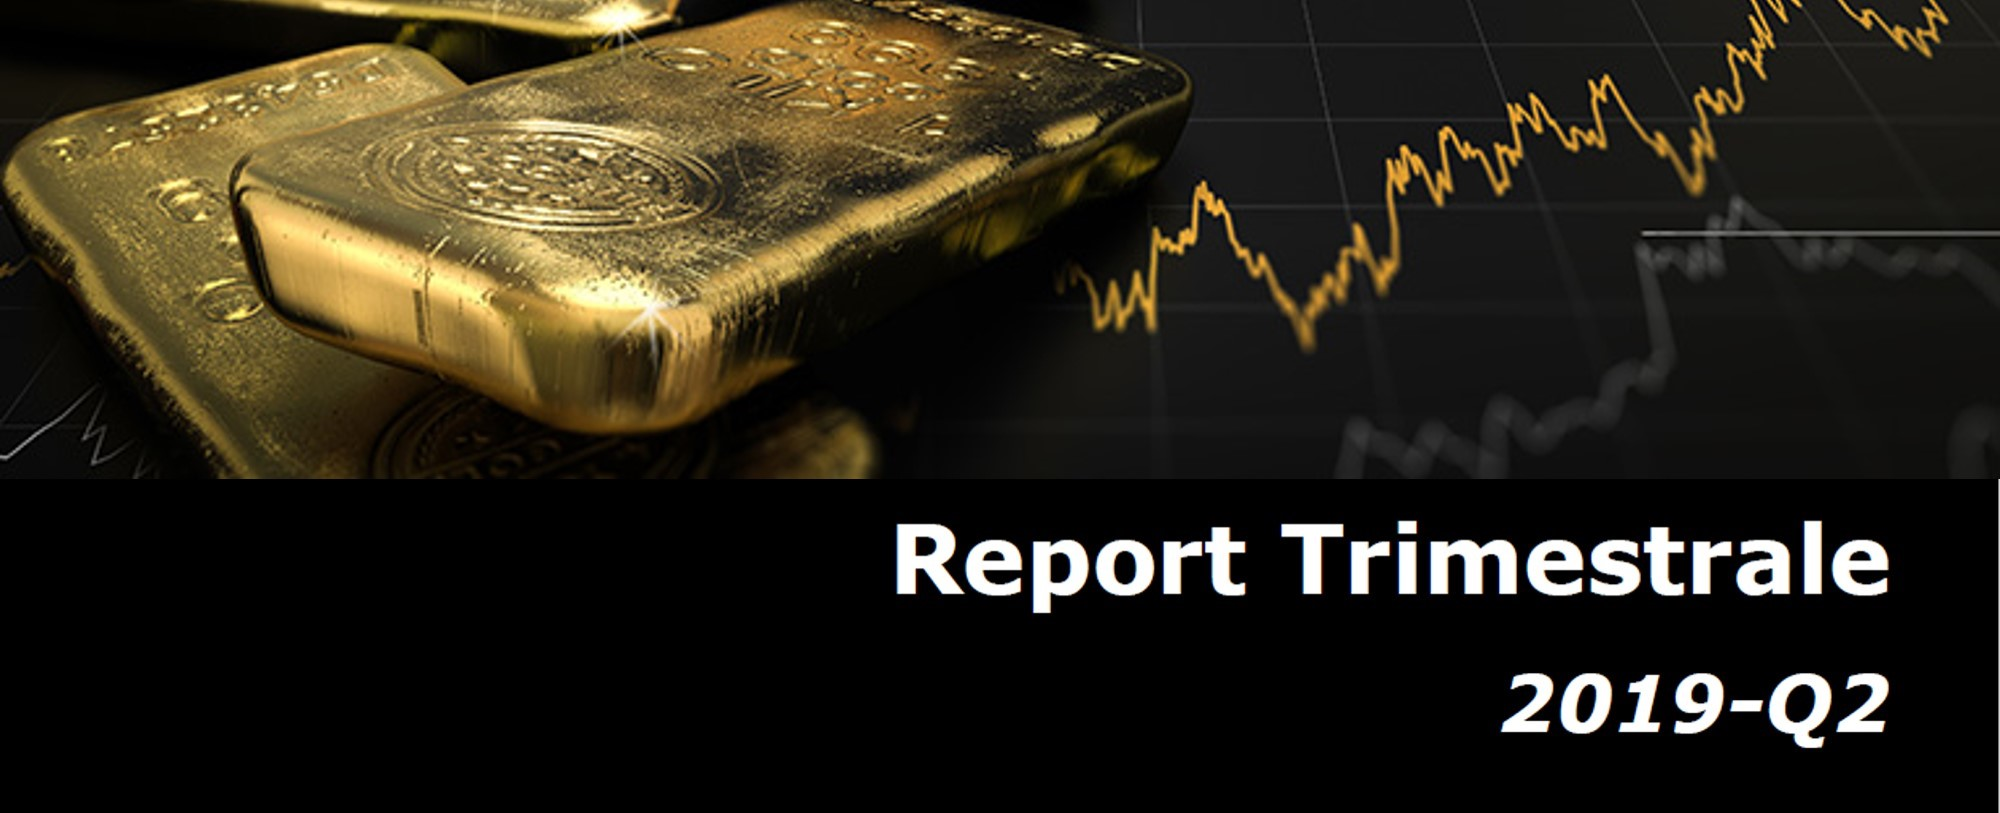
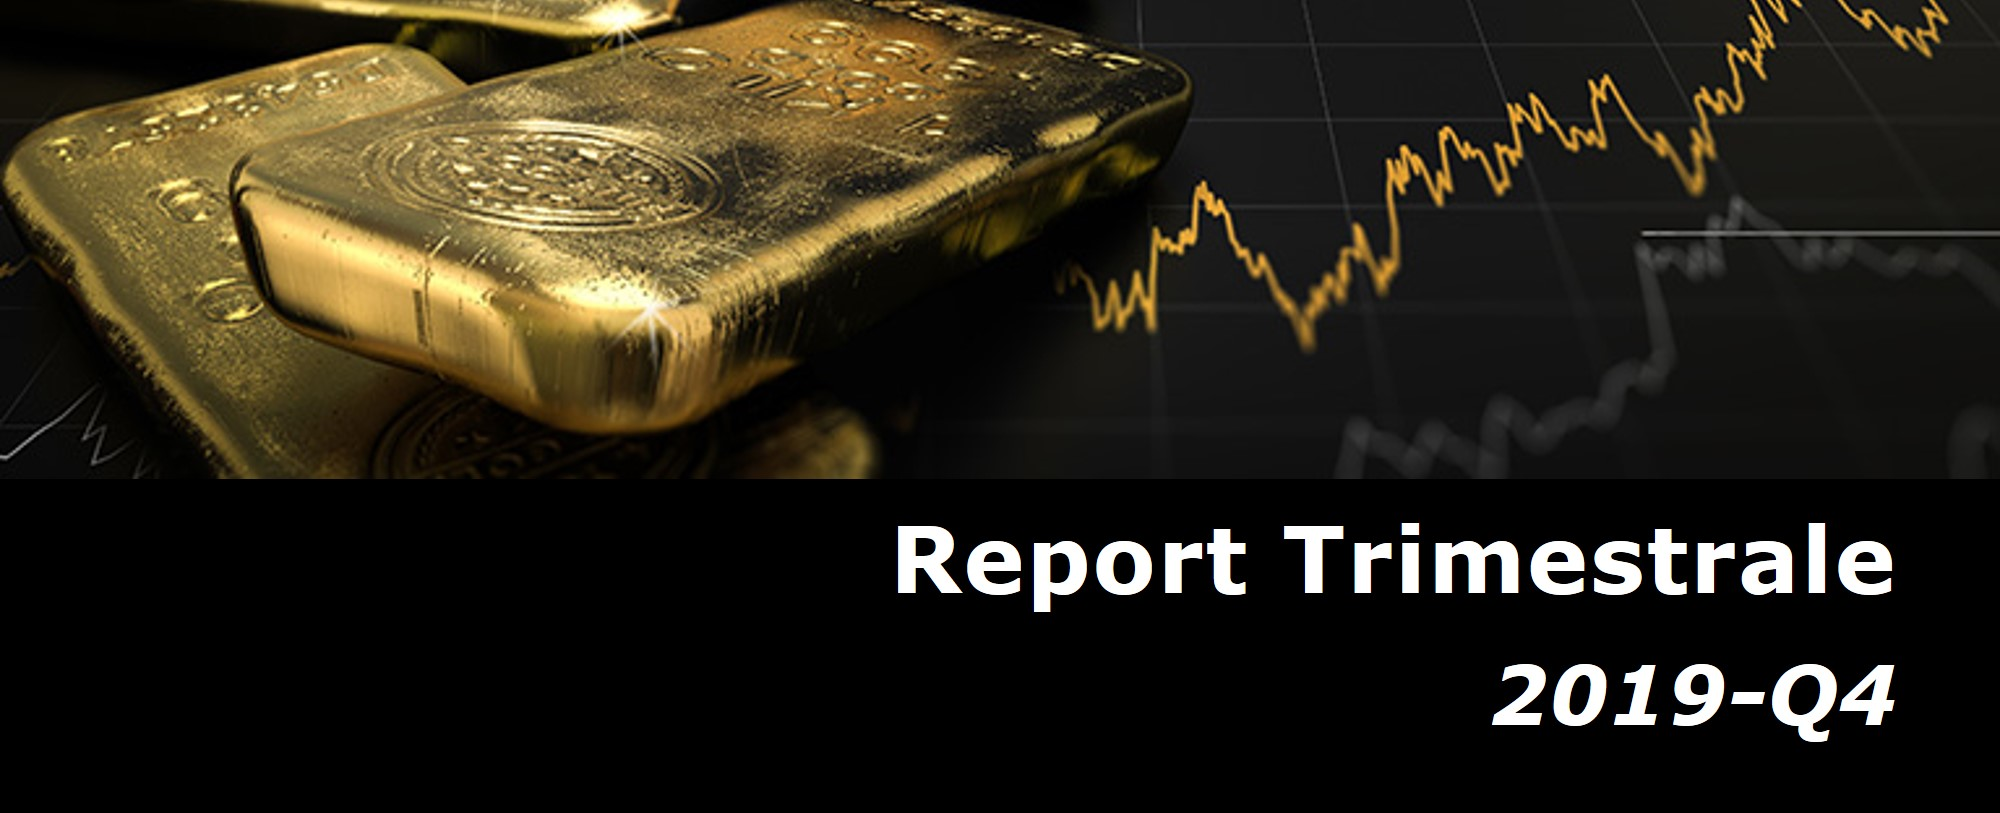
created post for report 2019q4

Changed region(s): [[0.465, 0.6458, 0.961, 0.738], [0.744, 0.7995, 0.961, 0.9225], [0.992, 0.5843, 1.0, 1.0]]

diff --git a/_posts/2020-01-31-report-trimestrale-Q4.md b/_posts/2020-01-31-report-trimestrale-Q4.md
@@ -1,0 +1,38 @@
+---
+layout: post
+comments: false
+title: "Report trimestrale sull'ecosistema Bitcoin, crypto-asset e blockchain"
+subtitle: "Quarto trimestre 2019"
+author: "Staff"
+image: 
+    main: 2020-01-31-report-trimestrale.jpg
+    thumb: 2020-01-31-report-trimestrale-thumb.jpg
+published: false
+newsfeed: false
+---
+
+Il Digital Gold Institute pubblica un report trimestrale sull'ecosistema Bitcoin, crypto-asset e blockchain: è appena uscito il numero tre (2019-Q4, quarto trimestre 2019), di cui in coda trovate l'editoriale. I temi coperti sono: mercato, sviluppi tecnologici, regolazione ed in generale le notizie principali del trimestre.
+
+Il report è in *esclusiva* per i nostri [partner]({{ site.baseurl }}/#partners), ma i numeri precedenti sono disponibili alla consultazione per tutti al seguente [link]({{ site.baseurl }}/reports.html).
+
+> ### Editoriale 2019-Q4
+>
+>La chiusura dell’anno è inevitabilmente tempo di bilanci, per cui il nostro sguardo, pur focalizzato sul quarto trimestre, inevitabilmente abbraccia tutto il 2019.
+
+È sempre opportuno partire dal mercato, che rappresenta il luogo dove viene messo a fuoco il valore di asset, idee e progetti. Bitcoin ha registrato una performance del 92%, nonostante il secondo semestre sia stato significativamente negativo. Ed altrettanto effervescente è stata l’offerta di prodotti finanziari denominati in Bitcoin: futures, opzioni, ETN, ETP. Grayscale Trust ha superato il miliardo di dollari di crypto-asset gestiti ed i fondi pensione americani iniziano timidamente a sondare l’investimento in Bitcoin.
+
+Tra i servizi finanziari per Bitcoin e crypto-assets, svolge un ruolo cruciale la custodia, precondizione per l’ingresso dei capitali istituzionali nel mercato. Questo trimestre il tema è esploso e ve lo raccontiamo nella sezione ecosistema. Crediamo molto nella custodia: nello scorso semestre la nostra ricerca ha messo a fuoco un protocollo innovativo che riteniamo superiore a tutte le soluzioni attualmente sul mercato. Ci crediamo talmente tanto che abbiamo costituito una startup dedicata alla custodia: CheckSig. Lo dichiariamo senza timore di conflitti di interesse: da sempre we walk the talk, diciamo quello che pensiamo e facciamo quello che diciamo. La credibilità accumulata in questi anni ci ha consentito di raccogliere capitali con sorprendente facilità: un milione di euro per il 20% di CheckSig, con una valutazione implicita di cinque milioni di euro al momento della costituzione dell’azienda. E questo è ovviamente solo l’inizio…
+
+Dal punto di visto tecnologico, il 2019 è stato l’anno delle soluzioni di secondo livello: Lightning Network e Liquid. Nonostante gli sviluppi intensi, noi siamo rimasti poco convinti di efficacia ed utilità… il tempo giudicherà. Gli sviluppi sul protocollo vero e proprio, come nel 2018, hanno covato sotto la cenere: in realtà la qualità e quantità di lavoro fatto è enorme ed i risultati ottenuti (Taproot e Schnorr su tutti) sono adesso pronti per essere valutati in funzione dell’adozione nel protocollo Bitcoin. Il tema ci affascina ed entusiasma: siamo pronti a raccontarvelo nel nuovo anno. Nel frattempo, non manchiamo di segnalare che la potenza computazionale della rete Bitcoin ha segnato un nuovo record superando i 100EH/s (exa-hash al secondo)
+
+La notizia della quantum supremacy dimostrata da Google ha sollevato qualche preoccupazione per la sicurezza crittografica di Bitcoin e del sistema finanziario e militare. Il tema merita una disanima seria ed approfondita: la trovate sempre nella sezione tecnologia di questo numero. La conclusione è che per ora non c’è davvero da preoccuparsi.
+
+Sul fronte tecnologico il 2019 ha segnato anche un generale ridimensionamento delle tendenze a cui non abbiamo mai fatto mancare le nostre critiche: la blockchain magica, le ICO e per certi aspetti anche Ethereum. Introdotti spesso come alternativa a Bitcoin, alla prova del tempo stanno mostrando i loro limiti.
+
+Rilevantissimo invece il dibattito su Libra e stablecoin, che occupa gran parte della sezione regolazione. Se vi hanno appassionato le puntate precedenti, non potete perdervi questo aggiornamento che vede tutte le banche centrali rincorrere Zuckerberg. Per quanto ci riguarda, riteniamo che il tema possa rappresentare una tra le sfide più decisive del prossimo decennio. Bitcoin ha innescato il potenziale per una svolta senza precedenti nella storia della moneta: Libra è solo la prima bomba culturale che scoppia.
+
+Nella sezione regolazione trovate anche un aggiornamento sullo sviluppo da parte di FAFT-GAFI delle linee guida per il contrasto a riciclaggio, finanziamento del terrorismo e reati finanziari compiuti con crypto-assets. Il tema è delicato perché risulta tecnicamente difficile riproporre in ambito crypto i paradigmi tradizionali. Considerando l’esplosione dei servizi finanziari basati su Bitcoin, sarà essenziale monitorare anche questo tema. 
+
+Infine, qualche cenno sulla vita dell’istituto: il lancio del nostro programma di formazione, l’ingresso nel gruppo Global Digital Finance del Crypto Asset Lab (la nostra iniziativa di ricerca congiunta con l’Università degli Studi di Milano-Bicocca), interviste e tavole rotonde.
+
+Da ultimo il trasferimento dei nostri uffici al Fintech District di Milano: veniteci a trovare!
